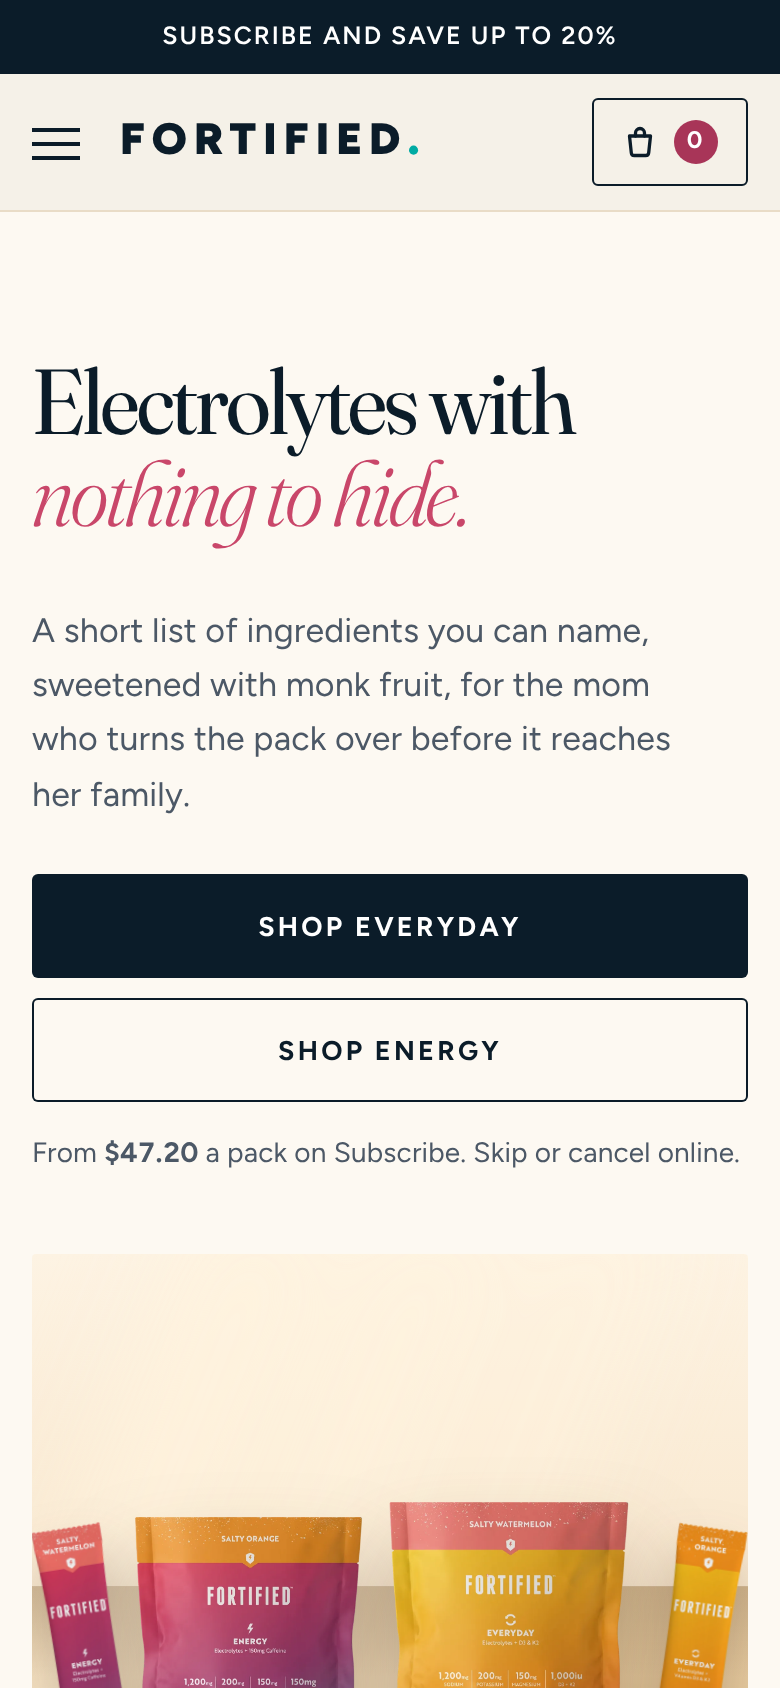
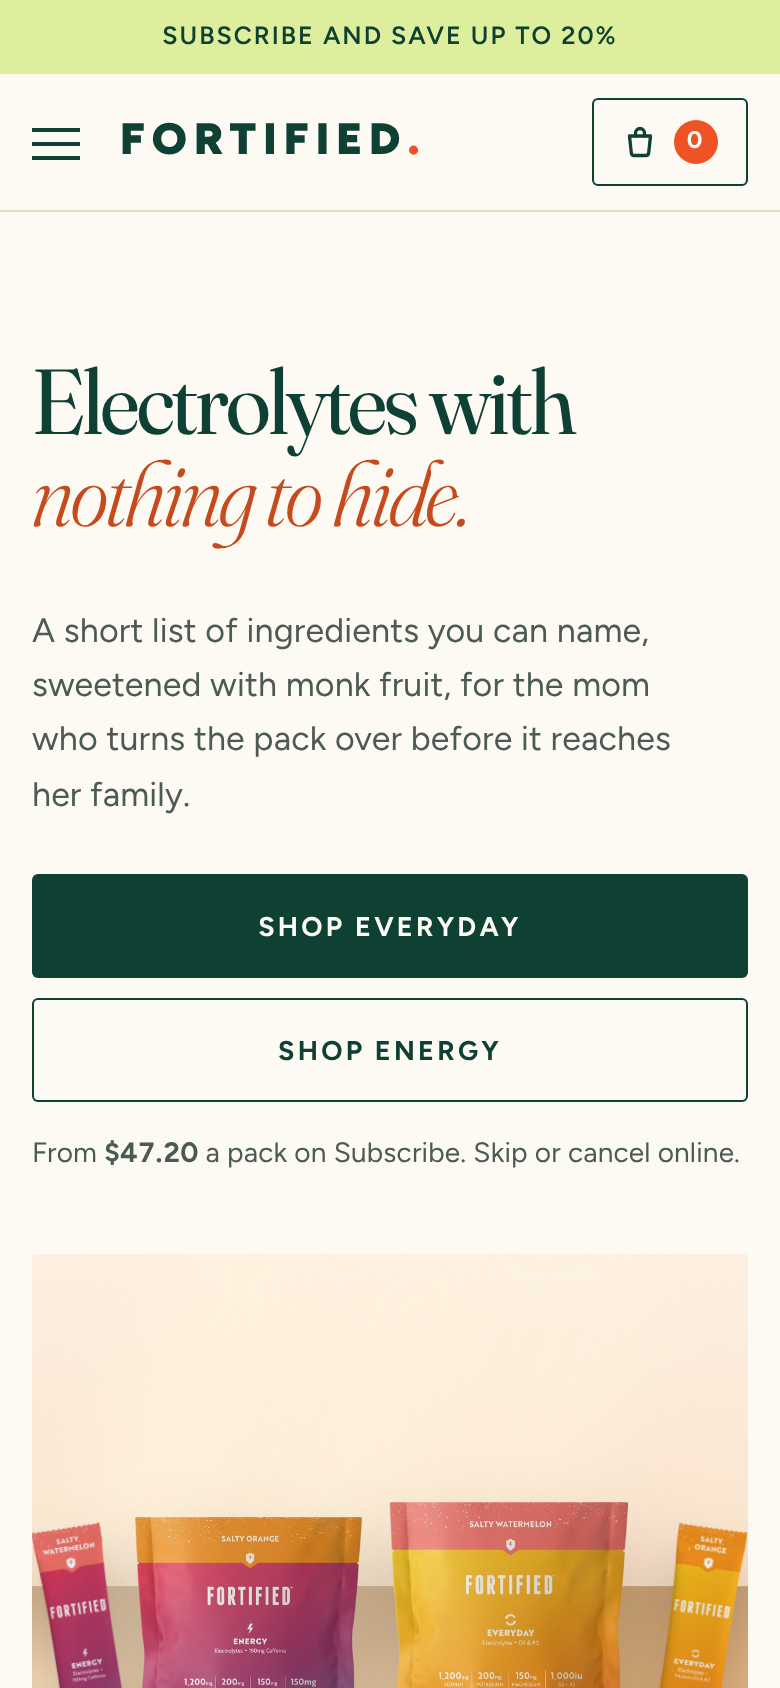
Palette v4 from measured segment sites
Forest #0f4034 anchor, chartreuse bar, sage, butter and peach section
bands, tomato accents, all taken from the measured homepages of Primal
Kitchen, Branch Basics and Ballerina Farm. The same color measurement
run on the mockup now returns those values; comparison chart added.

Claude-Session: https://claude.ai/code/session_01Hy9Tx2bmaV9u7xgwG4XAGv

diff --git a/mockups/site/site.css b/mockups/site/site.css
@@ -1172,3 +1172,93 @@ body { background: var(--paper); }
 /* Savings and cart accents */
 .item--save .item__name, .item--save .item__val, .total-row--save, .pd__save, .opt__aside, .sizes__perk { color: var(--accent-ink); }
 .p-never li span:last-child { color: var(--accent-ink); }
+
+/* ======================================================================
+   PALETTE v4 (2026-11-12): taken directly from the measured segment sites.
+   Ground: Branch Basics #fdfaf4 / Ballerina Farm #fffbf0.
+   Anchor: Primal Kitchen forest #0f4034, Primally Pure moss #4f5c43.
+   Bright: Branch Basics chartreuse #ddee9d, Primal Kitchen lime #a5cf46.
+   Warm: Ballerina Farm tomato #ef5223 and caramel #c47d3e,
+         Branch Basics peach #f6c29f, Primal Kitchen butter #f4e9a4, sage #d4e0af.
+   Color is used in blocks (bars, tiles, bands), the way those sites use it.
+   ====================================================================== */
+:root {
+  --paper: #fdfaf4;
+  --paper-2: #f3ead8;
+  --card: #fffdf8;
+  --ink: #0f4034;          /* forest: text, buttons, footer */
+  --ink-2: #4b5a52;
+  --rule: #e4dac6;
+  --moss: #4f5c43;
+  --chartreuse: #ddee9d;
+  --lime: #a5cf46;
+  --tomato: #ef5223;
+  --caramel: #c47d3e;
+  --peach: #f6c29f;
+  --butter: #f4e9a4;
+  --sage: #d4e0af;
+  --accent: #c64a1c;       /* tomato, deepened for text on cream (4.6:1) */
+  --accent-ink: #b0421a;   /* small text (5.3:1) */
+}
+body { color: var(--ink); background: var(--paper); }
+.display em { color: var(--accent); }
+.lede { color: var(--ink-2); }
+
+/* Header: lime announcement bar, cream nav, as on Primal Kitchen */
+.bar { background: var(--chartreuse); color: var(--ink); }
+.bar b { color: var(--tomato); }
+.site-head { background: rgba(253,250,244,.97); }
+.logo i { color: var(--tomato); }
+.cart-count { background: var(--tomato); color: #fff; }
+
+/* Buttons: forest primary, chartreuse secondary */
+.btn--money { --bg: var(--ink); --fg: #fdfaf4; }
+.btn--money:hover { --bg: #0a2e25; }
+.btn--ghost { --fg: var(--ink); }
+.closing-card .btn, .on-dark .btn--paper { --bg: var(--chartreuse); --fg: var(--ink); }
+
+/* Section bands in the segment's tile colors */
+.sec--paper2 { background: var(--paper-2); }
+section[aria-labelledby="label-h"] { background: var(--sage); }
+section[aria-labelledby="pr-h"] { background: var(--butter); }
+section[aria-labelledby="proof-h"] { background: var(--peach); }
+.p-close { background: var(--ink); color: #fdfaf4; }
+.p-close .display em { color: var(--chartreuse); }
+.p-close .lede { color: rgba(253,250,244,.82); }
+.p-close .btn--money { --bg: var(--chartreuse); --fg: var(--ink); }
+.on-dark, .foot { background: var(--ink); }
+.on-dark .display em { color: var(--chartreuse); }
+.foot .logo i { color: var(--chartreuse); }
+.news .btn--money { --bg: var(--chartreuse); --fg: var(--ink); }
+.p-tiers .is-best { background: var(--chartreuse); }
+.p-tiers .is-best .p-tiers__pct { color: var(--ink); font-style: italic; }
+.p-tiers > div.is-best { padding-left: 28px; padding-right: 28px; }
+.p-handnote, .letter__sign { color: var(--accent-ink); }
+.letter__body p:first-child::first-letter { color: var(--tomato); }
+.backpack .p-handnote { background: var(--sage); }
+.p-never li span:last-child, .item--add .item__name::before { color: var(--accent-ink); }
+
+/* Counter scenes: peach and caramel light */
+.set { background: linear-gradient(180deg, #fdf0e2 0%, #fae3cb 58%, #e2b98c 58.2%, #d6a874 100%); }
+.p-formula__img { background: var(--peach); }
+
+/* Product page */
+.pd__stage, .field--everyday.pd__stage { background: linear-gradient(180deg, #fbf3d2 0%, #f4e9a4 62%, #e3cf7c 62.2%, #d9c26b 100%); }
+.field--energy.pd__stage { background: linear-gradient(180deg, #fde9dc 0%, #f6c29f 62%, #e3a77f 62.2%, #d99a71 100%); }
+.field--energy .tag, .field--everyday .tag { color: var(--ink); }
+.progress__fill, .tiers__steps li.is-on .tiers__seg { background: var(--lime); }
+.tiers__steps li.is-next .tiers__seg { background: repeating-linear-gradient(90deg, var(--lime) 0 3px, transparent 3px 7px); }
+.tiers__steps li.is-on span { color: var(--ink); }
+.opt__aside, .sizes__perk, .item--save .item__name, .item--save .item__val, .total-row--save, .pd__save { color: var(--accent-ink); }
+.pd__count { background: var(--ink); color: #fdfaf4; }
+.pd-receipt .sheet { border-top-color: var(--ink); }
+.pd-proof .stars { color: var(--caramel); }
+[data-pp] button[aria-pressed="true"], .seg button[aria-pressed="true"] { background: var(--ink); }
+.stepper.stepper--sm button:hover:not(:disabled) { background: var(--ink); }
+.ui__toast { background: var(--chartreuse); }
+.seg--formula button[data-v="energy"][aria-pressed="true"] { background: var(--ink); color: #fff; }
+.seg--formula button[data-v="everyday"][aria-pressed="true"] { background: var(--ink); color: #fff; }
+::selection { background: var(--chartreuse); color: var(--ink); }
+:root { --accent-ink: #9c3a17; }
+section[aria-labelledby="proof-h"] blockquote { color: var(--ink); }
+section[aria-labelledby="label-h"] .lede, section[aria-labelledby="pr-h"] p { color: #33433b; }

diff --git a/DESIGN.md b/DESIGN.md
@@ -91,3 +91,20 @@ Supersedes the orange accent above. Keeps the audit's cream base and the navy an
 | teal | #00aba3 | Logo dot only |
 
 Imagery: real pouch renders (transparent) on styled counters, the brand's fruit photography for the formula tiles, and the actual back of the pouch beside the ingredient list. Files in `mockups/site/img/`, compressed to under 1MB total.
+
+## Palette v4: measured segment colors (2026-11-12, current)
+
+The owner judged v3 (navy and berry-rose) unlike any competitor. v4 takes every main color directly from the measured homepages and uses color in blocks the way those sites do. Verified by running the same area-weighted color measurement on the mockup: its top colors are #d4e0af, #f4e9a4, #f6c29f, #fdfaf4, #ddee9d, #0f4034, #ef5223, all measured values from the segment sites (see `mockups/site/screens/palette-comparison.png`).
+
+| Token | Value | Measured on | Use |
+|---|---|---|---|
+| `--paper` | #fdfaf4 | Branch Basics | Page ground |
+| `--ink` | #0f4034 | Primal Kitchen | Text, primary buttons, dark bands, footer |
+| `--chartreuse` | #ddee9d | Branch Basics | Announcement bar, best-value tier, buttons on dark |
+| `--lime` | #a5cf46 | Primal Kitchen | Savings bar fill |
+| `--sage` | #d4e0af | Primal Kitchen | Label section band |
+| `--butter` | #f4e9a4 | Primal Kitchen | Promise band, Everyday product stage |
+| `--peach` | #f6c29f | Branch Basics | Proof band, Energy product stage, formula image tiles |
+| `--tomato` | #ef5223 | Ballerina Farm | Logo dot, cart count, drop cap |
+| `--accent` / `--accent-ink` | #c64a1c / #9c3a17 | tomato deepened for text contrast | Italic display words; small accent text |
+| `--caramel` | #c47d3e | Ballerina Farm | Review stars |
